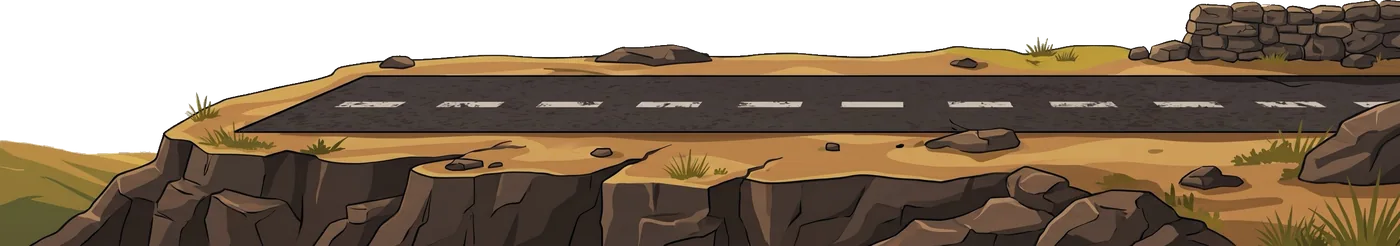
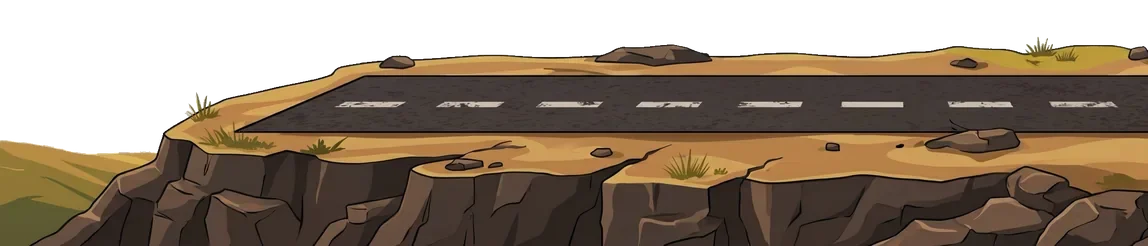
Ido in the air: runway without the stone wall
Claude-Session: https://claude.ai/code/session_01HyesyxrFKcGxt1hc9YHT4L

diff --git a/docs/ido_air.html b/docs/ido_air.html
@@ -96,7 +96,7 @@ document.addEventListener("visibilitychange", () => { if (document.hidden) engin
 
 // ---------- images ----------
 const IMG = {}; const NAMES = ["sky", "hills", "village", "grass", "runway", "plane", "rocket", "c1", "c2", "c5", "c10", "m2", "m3", "m5", "m10", "cloud0", "cloud1", "cloud2", "cloud3", "boom0", "boom1", "boom2", "boom3"];
-const loaded = Promise.all(NAMES.map((n) => new Promise((ok) => { const i = new Image(); i.onload = i.onerror = ok; i.src = "img/ia/" + n + ".webp?v=2"; IMG[n] = i; })));
+const loaded = Promise.all(NAMES.map((n) => new Promise((ok) => { const i = new Image(); i.onload = i.onerror = ok; i.src = "img/ia/" + n + ".webp?v=3"; IMG[n] = i; })));
 const sprite = (e) => e.t === "r" ? "rocket" : (e.t === "c" ? "c" : "m") + e.v;
 
 // ---------- stage ----------
